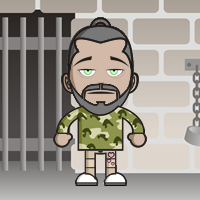
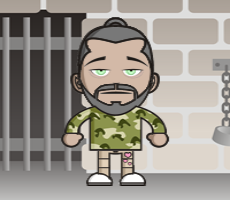
added new models for damaged players

diff --git a/js/main.js b/js/main.js
@@ -8,6 +8,7 @@
 function Fighter(name, health, damagePerAttack, special, avatar) {
     this.name = name;
     this.health = health;
+    this.maxHealth = health;
     this.damagePerAttack = damagePerAttack;
     this.special = special;
     this.avatar = avatar;
@@ -21,7 +22,7 @@ fightersFunctionSet = function() {
     ryan = new Fighter('Ryan', 110, 21, 'Triple Punch', 'img/Ryan.png');
     xavier = new Fighter('Xavier', 100, 14, 'Troll Attack', 'img/Ryan.png');
     aaron = new Fighter('Aaron', 145, 17, 'Black Mamba', 'img/Aaron.png');
-    totor = new Fighter('Totor', 90, 14, 'Equarissage', 'img/Ryan.png');
+    totor = new Fighter('Totor', 90, 14, 'Equarissage', 'img/Totor.png');
     crispy = new Fighter('Crispy', 100, 16, 'Axe Throw', 'img/Crispy.png');
     chuck = new Fighter('Chuck Norris', 9999, 99, 'Round House Kick', 'img/Ryan.png');
 
@@ -156,6 +157,13 @@ function attack(attack, defense, domElement) {
 resolve = function(winner, loser) {
     clearTimeout(timer);
     roundNum = 0;
+    $finalMsg = $('<h1 style="color:white"></h1>');
+    $finalMsgAvatar = $('<img>');
+    $finalMsgAvatar.attr('src', winner.avatar);
+    $finalMsg.append(winner.name + ' has won !');
+    $('.overlay').append($finalMsg);
+    $('.overlay').append($finalMsgAvatar);
+    $('.overlay').show();
     // refreshDomElement($outputDiv, winner.name + ' has won !');
 };
 
@@ -228,6 +236,17 @@ function round() {
         }
         resolve(winner, loser);
         return;
+    }
+    if (player1.health <= (player1.maxHealth)/2) {
+      var src = player1.avatar.split('.');
+      src = src[0] + '-dmg.' + src[1];
+      $player1ADisplay.attr('src', src);
+    }
+
+    if (player2.health <= (player2.maxHealth)/2) {
+      var src = player2.avatar.split('.');
+      src = src[0] + '-dmg.' + src[1];
+      $player2ADisplay.attr('src', src);
     }
 
     var roundFight = function() {

diff --git a/css/style.css b/css/style.css
@@ -117,4 +117,5 @@ select {
   top: 10vh;
   left: 5vw;
   background-color: rgba(0, 0, 0, 0.6);
+  text-align: center;
 }
